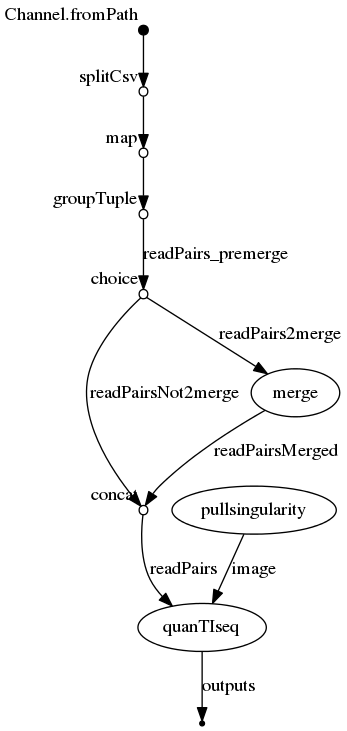
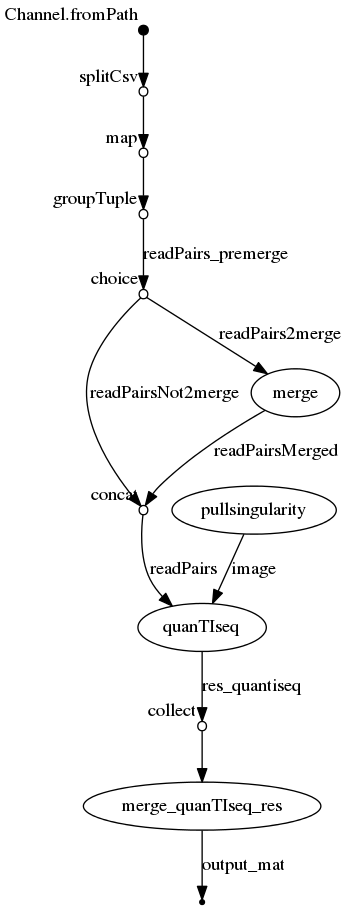
Generated DAG [skip ci]

diff --git a/dag.html b/dag.html
@@ -1,0 +1,148 @@
+<!--
+  ~ Copyright 2013-2019, Centre for Genomic Regulation (CRG)
+  ~
+  ~ Licensed under the Apache License, Version 2.0 (the "License");
+  ~ you may not use this file except in compliance with the License.
+  ~ You may obtain a copy of the License at
+  ~
+  ~     http://www.apache.org/licenses/LICENSE-2.0
+  ~
+  ~ Unless required by applicable law or agreed to in writing, software
+  ~ distributed under the License is distributed on an "AS IS" BASIS,
+  ~ WITHOUT WARRANTIES OR CONDITIONS OF ANY KIND, either express or implied.
+  ~ See the License for the specific language governing permissions and
+  ~ limitations under the License.
+  -->
+
+<html>
+
+    <head>
+        <title>Nextflow Cytoscape.js with Dagre</title>
+
+        <meta name="viewport" content="width=device-width, user-scalable=no, initial-scale=1, maximum-scale=1">
+
+        <script type="text/javascript">
+        var prot = (("https:" == document.location.protocol) ? "https://" : "http://");
+        document.write(unescape("%3Cscript src='" + prot + "code.jquery.com/jquery-2.0.3.min.js' type='text/javascript' %3E%3C/script%3E"));
+        document.write(unescape("%3Cscript src='" + prot + "cdnjs.cloudflare.com/ajax/libs/cytoscape/2.6.12/cytoscape.min.js' type='text/javascript' %3E%3C/script%3E"));
+        document.write(unescape("%3Cscript src='" + prot + "cdn.rawgit.com/cpettitt/dagre/v0.7.4/dist/dagre.min.js' type='text/javascript' %3E%3C/script%3E"));
+        document.write(unescape("%3Cscript src='" + prot + "cdn.rawgit.com/cytoscape/cytoscape.js-dagre/1.1.2/cytoscape-dagre.js' type='text/javascript' %3E%3C/script%3E"));
+        </script>
+
+        <style>
+            body {
+                font-family: helvetica;
+                font-size: 14px;
+            }
+
+            #cy {
+                width: 100%;
+                height: 100%;
+                position: absolute;
+                left: 0;
+                top: 0;
+                z-index: 999;
+            }
+
+            h1 {
+                opacity: 0.5;
+                font-size: 1em;
+            }
+        </style>
+
+        <script>
+            $(function(){
+                var cy = window.cy = cytoscape({
+                    container: document.getElementById('cy'),
+                    boxSelectionEnabled: false,
+                    autounselectify: true,
+
+                    layout: {
+                        name: 'dagre'
+                    },
+
+                    style: cytoscape.stylesheet()
+                        .selector( 'node')
+                            .css({
+                                'width': 10,
+                                'height': 10,
+                                'content': 'data(label)',
+                                'text-valign': 'center',
+                                'text-halign': 'center',
+                                'text-opacity': 0.5,
+                            })
+                        .selector('node.PROCESS')
+                            .css({
+                                'width': 100,
+                                'height': 50,
+                                'text-opacity': 0.9,
+                                'background-color': '#009911'
+                            })
+                        .selector('node.OPERATOR')
+                            .css({
+                                'background-color': '#11479e',
+                                'text-halign': 'right',
+                            })
+                        .selector('node.ORIGIN')
+                            .css({
+                                'background-color': '#999999',
+                                'text-halign': 'right',
+                            })
+                        .selector('node.TERMINATION')
+                            .css({
+                                'background-color': '#999999',
+                                'text-halign': 'right',
+                            })
+                        .selector('edge')
+                            .css({
+                                'content': 'data(label)',
+                                'text-opacity': 0.5,
+                                'width': 4,
+                                'target-arrow-shape': 'triangle',
+                                'line-color': '#9dbaea',
+                                'target-arrow-color': '#9dbaea'
+                            }),
+
+elements: {
+nodes: [
+{ data: { id: 'p0', label: 'Channel.fromPath'}, classes: 'ORIGIN' },
+{ data: { id: 'p1', label: 'splitCsv'}, classes: 'OPERATOR' },
+{ data: { id: 'p2', label: 'map'}, classes: 'OPERATOR' },
+{ data: { id: 'p3', label: 'groupTuple'}, classes: 'OPERATOR' },
+{ data: { id: 'p4', label: 'pullsingularity'}, classes: 'PROCESS' },
+{ data: { id: 'p5', label: 'choice'}, classes: 'OPERATOR' },
+{ data: { id: 'p6', label: 'merge'}, classes: 'PROCESS' },
+{ data: { id: 'p7', label: 'concat'}, classes: 'OPERATOR' },
+{ data: { id: 'p8', label: 'quanTIseq'}, classes: 'PROCESS' },
+{ data: { id: 'p9', label: 'collect'}, classes: 'OPERATOR' },
+{ data: { id: 'p10', label: 'merge_quanTIseq_res'}, classes: 'PROCESS' },
+{ data: { id: 'p11'}, classes: 'NODE' },
+],
+edges: [
+{ data: { source: 'p0', target: 'p1'} },
+{ data: { source: 'p1', target: 'p2'} },
+{ data: { source: 'p2', target: 'p3'} },
+{ data: { source: 'p3', target: 'p5', label: 'readPairs_premerge' } },
+{ data: { source: 'p4', target: 'p8', label: 'image' } },
+{ data: { source: 'p5', target: 'p7', label: 'readPairsNot2merge' } },
+{ data: { source: 'p5', target: 'p6', label: 'readPairs2merge' } },
+{ data: { source: 'p6', target: 'p7', label: 'readPairsMerged' } },
+{ data: { source: 'p7', target: 'p8', label: 'readPairs' } },
+{ data: { source: 'p8', target: 'p9', label: 'res_quantiseq' } },
+{ data: { source: 'p9', target: 'p10'} },
+{ data: { source: 'p10', target: 'p11', label: 'output_mat' } },
+],
+},
+
+                });
+
+            });
+        </script>
+    </head>
+
+    <body>
+        <h1>Nextflow Cytoscape.js with Dagre</h1>
+        <div id="cy"></div>
+    </body>
+
+</html>
